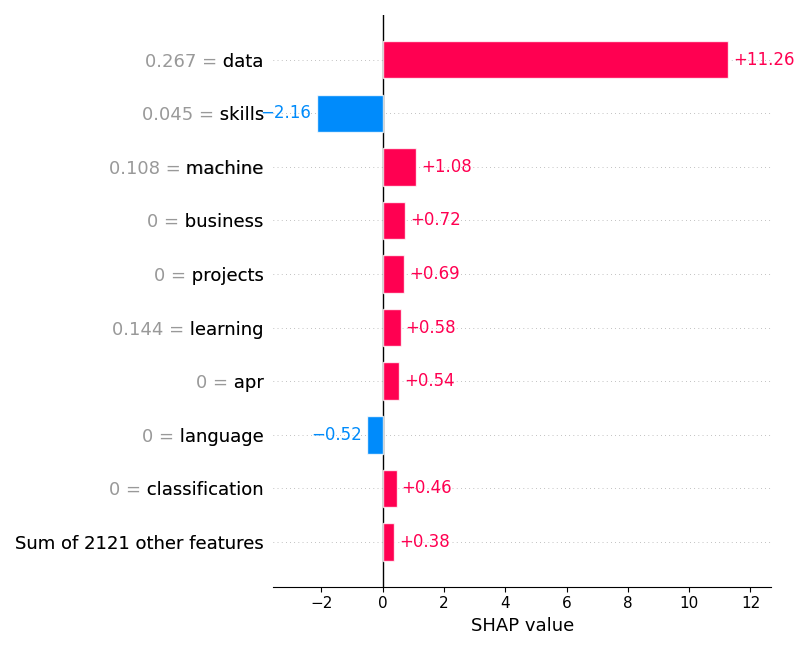
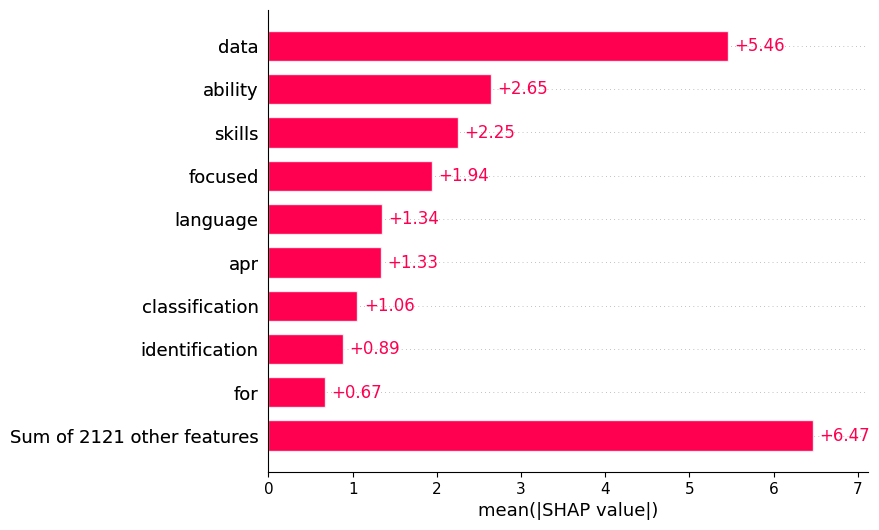
final changes before survey

Changed region(s): [[0.0, 0.0302, 1.0, 0.9962], [0.5312, 0.2415, 0.5938, 0.2717], [0.2812, 0.9057, 0.3125, 0.9358]]

diff --git a/cvision/frontend/src/components/ToolSelector.jsx b/cvision/frontend/src/components/ToolSelector.jsx
@@ -1,6 +1,22 @@
-import React, { useState } from "react";
+import React, { useState, useEffect } from "react";
 
 export default function ToolSelector() {
+  useEffect(() => {
+  const handleResize = (event) => {
+    if (event.origin.includes("127.0.0.1")) {
+      const iframe = document.querySelector("iframe");
+      if (iframe && event.data.height) {
+        iframe.style.height = event.data.height + "px";
+      }
+    }
+  };
+
+  window.addEventListener("message", handleResize);
+  return () => window.removeEventListener("message", handleResize);
+}, []);
+
+
+  
   const [tool, setTool] = useState("shap");
   const [file, setFile] = useState(null);
   const [score, setScore] = useState(null);
@@ -169,78 +185,7 @@ export default function ToolSelector() {
           </p>
         )}
 
-        {score !== null && (
-          <div className="bg-white rounded-2xl shadow-xl p-10">
-            <div className="text-center">
-              <h2 className="text-2xl font-bold text-gray-800">Match Score</h2>
-              <p className="text-6xl font-extrabold text-indigo-600 mt-2">
-                {score.toFixed(2)}%
-              </p>
-              <p className="mt-4 text-gray-600">
-                This score reflects how well the resume aligns with the job
-                requirements based on extracted skills.
-              </p>
-            </div>
-
-            <div className="mt-12 grid md:grid-cols-2 gap-8">
-              {tool === "shap" && resultFile && (
-                <div>
-                  <h3 className="text-xl font-semibold text-gray-700 mb-3">
-                    SHAP Feature Importance
-                  </h3>
-                  <img
-                    src={`http://127.0.0.1:5000/outputs/${resultFile}`}
-                    alt="SHAP Importance"
-                    className="rounded-xl border w-full"
-                  />
-                </div>
-              )}
-
-              {tool === "lime_text" && resultFile && (
-                <div className="mt-8">
-                  <h3 className="text-xl font-semibold text-gray-700 mb-3">
-                    LIME Explanation
-                  </h3>
-                  <div className="w-full min-h-[800px]">
-                    <iframe
-                      src={`http://127.0.0.1:5000/outputs/${resultFile}`}
-                      title="LIME Explanation"
-                      className="w-full h-[800px] border rounded-xl shadow"
-                      style={{ width: "50%", height: "350px", border: "1px solid #ccc", borderRadius: "1rem" }}
-
-                    />
-                  </div>
-                </div>
-              )}
-
-              {tool === "dice" && (
-                <div>
-                  <h3 className="text-xl font-semibold text-gray-700 mb-3">
-                    DiCE Explanation
-                  </h3>
-                  {outputText ? (
-                    <div className="p-4 border rounded bg-white text-black">
-                      <div className="font-mono whitespace-pre-wrap">
-                        {renderDiceOutput(outputText)}
-                      </div>
-                    </div>
-                  ) : resultFile ? (
-                    <div>
-                      <p>Download the explanation:</p>
-                      <a
-                        href={`http://127.0.0.1:5000/outputs/${resultFile}`}
-                        target="_blank"
-                        rel="noopener noreferrer"
-                        className="text-blue-600 underline"
-                      >
-                        View explanation file
-                      </a>
-                    </div>
-                  ) : null}
-                </div>
-              )}
-
-              <div className="bg-gray-50 rounded-xl p-6 shadow-inner">
+        <div className="bg-gray-50 rounded-xl p-6 shadow-inner">
                 <h4 className="text-lg font-semibold text-indigo-700 mb-2">
                   Interpretation Tips
                 </h4>
@@ -263,6 +208,88 @@ export default function ToolSelector() {
                   </li>
                 </ul>
               </div>
+
+        {score !== null && (
+          <div className="bg-white rounded-2xl shadow-xl p-10">
+            <div className="text-center">
+              <h2 className="text-2xl font-bold text-gray-800">Match Score</h2>
+              <p className="text-6xl font-extrabold text-indigo-600 mt-2">
+                {score.toFixed(2)}%
+              </p>
+              <p className="mt-4 text-gray-600">
+                This score reflects how well the resume aligns with the job
+                requirements based on extracted skills.
+              </p>
+            </div>
+
+            <div className="mt-12 grid md:grid-cols-2 gap-8">
+              {tool === "shap" && resultFile && (
+                <div>
+                  <h3 className="text-xl font-semibold text-gray-700 mb-3">
+                    SHAP Feature Importance
+                  </h3>
+                  <p className="text-sm text-gray-600 mb-4">
+  This is global feature importance plot, where the global importance of each feature is taken to be the mean absolute value for that feature over all the given samples.
+</p>
+                  <img
+                    src={`http://127.0.0.1:5000/outputs/${resultFile}`}
+                    alt="SHAP Importance"
+                    className="rounded-xl border w-full"
+                  />
+                </div>
+              )}
+
+              {tool === "lime_text" && resultFile && (
+                <div className="mt-8">
+                  <h3 className="text-xl font-semibold text-gray-700 mb-3">
+                    LIME Explanation
+                  </h3>
+                  <p className="text-sm text-gray-600 mb-4">
+  This explanation highlights key words in your resume and shows whether they positively or negatively affected your match score. Words are color-coded: orange means a positive effect, blue means negative.
+</p>
+                  <div className="w-full min-h-[800px]">
+                    <iframe
+                      src={`http://127.0.0.1:5000/outputs/${resultFile}`}
+                      title="LIME Explanation"
+                      className="w-full h-[800px] border rounded-xl shadow"
+                      style={{ width: "110%", height: "450px", border: "1px solid #ccc", borderRadius: "1rem" }}
+
+                    />
+                  </div>
+                </div>
+              )}
+
+              {tool === "dice" && (
+                <div>
+                  <h3 className="text-xl font-semibold text-gray-700 mb-3">
+                    DiCE Explanation
+                  </h3>
+                  <p className="text-sm text-gray-600 mb-4">
+  These suggestions show how your resume could be changed to receive a higher score. Each scenario lists specific changes (like adding skills or modifying terms) that would improve your match percentage.
+</p>
+                  {outputText ? (
+                    <div className="p-4 border rounded bg-white text-black">
+                      <div className="font-mono whitespace-pre-wrap">
+                        {renderDiceOutput(outputText)}
+                      </div>
+                    </div>
+                  ) : resultFile ? (
+                    <div>
+                      <p>Download the explanation:</p>
+                      <a
+                        href={`http://127.0.0.1:5000/outputs/${resultFile}`}
+                        target="_blank"
+                        rel="noopener noreferrer"
+                        className="text-blue-600 underline"
+                      >
+                        View explanation file
+                      </a>
+                    </div>
+                  ) : null}
+                </div>
+              )}
+
+              
             </div>
           </div>
         )}

diff --git a/cvision/backend/outputs/lime_text_explanation.html b/cvision/backend/outputs/lime_text_explanation.html
@@ -37089,10 +37089,10 @@
 /***/ })
 /******/ ]);
 //# sourceMappingURL=bundle.js.map </script></head><body>
-        <div class="lime top_div" id="top_div6M85F1NLWIU9HA0"></div>
+        <div class="lime top_div" id="top_div5S1S6ADWUKDK6IG"></div>
         
         <script>
-        var top_div = d3.select('#top_div6M85F1NLWIU9HA0').classed('lime top_div', true);
+        var top_div = d3.select('#top_div5S1S6ADWUKDK6IG').classed('lime top_div', true);
         
             var pp_div = top_div.append('div')
                                 .classed('lime predict_proba', true);
@@ -37104,10 +37104,24 @@
             var exp = new lime.Explanation(["Not a Match", "Match"]);
         
                 exp_div = top_div.append('div').classed('lime explanation', true);
-                exp.show([["Data", 0.20804370203375042], ["SKILLS", -0.09030238681360943], ["to", -0.02251162227091143], ["Machine", 0.021120781265137546], ["machine", 0.011417822735747495], ["Learning", 0.009141211891329595], ["AWS", -0.006500669878555674], ["Level", -0.004783436209509951], ["production", -0.004645929302274351], ["in", 0.004110160135634392]], 1, exp_div);
+                exp.show([["Data", 0.20968063628784173], ["SKILLS", -0.08803429823066504], ["to", -0.025146764288885255], ["Machine", 0.02223795210641272], ["Learning", 0.013986659772136069], ["machine", 0.012842888725818355], ["AWS", -0.00780642676606078], ["HISTORY", -0.006115708067835104], ["Python", -0.006105561672567849], ["measures", 0.003934190005029609]], 1, exp_div);
                 
         var raw_div = top_div.append('div');
-            exp.show_raw_text([["Data", 140, 0.20804370203375042], ["Data", 279, 0.20804370203375042], ["Data", 330, 0.20804370203375042], ["Data", 612, 0.20804370203375042], ["Data", 628, 0.20804370203375042], ["Data", 732, 0.20804370203375042], ["SKILLS", 500, -0.09030238681360943], ["to", 466, -0.02251162227091143], ["Machine", 156, 0.021120781265137546], ["Machine", 532, 0.021120781265137546], ["machine", 241, 0.011417822735747495], ["Learning", 164, 0.009141211891329595], ["Learning", 179, 0.009141211891329595], ["Learning", 540, 0.009141211891329595], ["AWS", 273, -0.006500669878555674], ["AWS", 596, -0.006500669878555674], ["AWS", 686, -0.006500669878555674], ["AWS", 718, -0.006500669878555674], ["Level", 700, -0.004783436209509951], ["production", 440, -0.004645929302274351], ["in", 113, 0.004110160135634392], ["in", 806, 0.004110160135634392]], 1, "ARMIN FITZGERALD\n\nD A   T   A     M   A   N   A   G   E   R\n\nPROFESSIONAL PROFILE\n\nEMPLOYMENT HISTORY\n\nExpertise in Mathematical Modelling, Data\nGathering, Machine Learning, Deep\nLearning. Ardent developer of Cloud-\nbased data solutions and machine\nlearning products using AWS.\n\nData Manager \n\nBPM Foundation, Jun 2020 - Ongoing\n\nData Sampling and management of Agricultural Produce and\nfinding correlation between faulty outcomes and safe production\nmeasures taken to handle the produce\n\nPROFICIENT SKILLS\n\nMathematical modelling, Machine\nLearning, Predictive Analysis, Artificial\nIntelligence, AWS deployment, Data\ngathering, Data Mining, Python.\n\nACHIEVEMENTS AND EXTRA\nCURRICULARS\n\nAWS Sagemaker Level 2 Architect\nAWS Certified Data Enginee\n\nEDUCATIONAL HISTORY\n\nSanghvi College of Engineering\n\nB.Tech in 2019 \n\n\f", raw_div, true);
+            exp.show_raw_text([["Data", 140, 0.20968063628784173], ["Data", 279, 0.20968063628784173], ["Data", 330, 0.20968063628784173], ["Data", 612, 0.20968063628784173], ["Data", 628, 0.20968063628784173], ["Data", 732, 0.20968063628784173], ["SKILLS", 500, -0.08803429823066504], ["to", 466, -0.025146764288885255], ["Machine", 156, 0.02223795210641272], ["Machine", 532, 0.02223795210641272], ["Learning", 164, 0.013986659772136069], ["Learning", 179, 0.013986659772136069], ["Learning", 540, 0.013986659772136069], ["machine", 241, 0.012842888725818355], ["AWS", 273, -0.00780642676606078], ["AWS", 596, -0.00780642676606078], ["AWS", 686, -0.00780642676606078], ["AWS", 718, -0.00780642676606078], ["HISTORY", 94, -0.006115708067835104], ["HISTORY", 758, -0.006115708067835104], ["Python", 641, -0.006105561672567849], ["measures", 451, 0.003934190005029609]], 1, "ARMIN FITZGERALD\n\nD A   T   A     M   A   N   A   G   E   R\n\nPROFESSIONAL PROFILE\n\nEMPLOYMENT HISTORY\n\nExpertise in Mathematical Modelling, Data\nGathering, Machine Learning, Deep\nLearning. Ardent developer of Cloud-\nbased data solutions and machine\nlearning products using AWS.\n\nData Manager \n\nBPM Foundation, Jun 2020 - Ongoing\n\nData Sampling and management of Agricultural Produce and\nfinding correlation between faulty outcomes and safe production\nmeasures taken to handle the produce\n\nPROFICIENT SKILLS\n\nMathematical modelling, Machine\nLearning, Predictive Analysis, Artificial\nIntelligence, AWS deployment, Data\ngathering, Data Mining, Python.\n\nACHIEVEMENTS AND EXTRA\nCURRICULARS\n\nAWS Sagemaker Level 2 Architect\nAWS Certified Data Enginee\n\nEDUCATIONAL HISTORY\n\nSanghvi College of Engineering\n\nB.Tech in 2019 \n\n\f", raw_div, true);
             
         </script>
-        </body></html>
+        
+    <script>
+    window.onload = function () {
+        setTimeout(function () {
+        const height = document.body.scrollHeight;
+        console.log("📏 iframe sending height:", height);
+        window.parent.postMessage({ height: height }, "*");
+        }, 500);
+    };
+    </script>
+    <style>
+    body { margin: 0; padding: 20px; overflow: hidden; }
+    .lime_text_div { max-height: none !important; overflow: visible !important; }
+    </style>
+    </body></html>

diff --git a/cvision/backend/explain_resume.py b/cvision/backend/explain_resume.py
@@ -3,6 +3,8 @@ import shap
 import numpy as np
 import pandas as pd
 import spacy
+import matplotlib.pyplot as plt
+
 from pdfminer.high_level import extract_text
 
 OUTPUT_DIR = "outputs"
@@ -23,22 +25,37 @@ def run_explanation(filepath, tool, model, vectorizer):
     if tool == "shap":
         print("\n📌 Explaining with SHAP...")
 
-        explainer = shap.Explainer(model)
-        shap_values = explainer(features)
+        features_dense = features.toarray()
+
+        # ✅ Explicitly use TreeExplainer for XGBoost
+        explainer = shap.TreeExplainer(model)
+        shap_values = explainer.shap_values(features_dense)
 
         feature_names = vectorizer.get_feature_names_out()
 
+        print("Mean SHAP value (non-abs):", np.mean(shap_values))
+        print("Max SHAP value:", np.max(shap_values))
+
+
         explanation = shap.Explanation(
-            values=shap_values.values[0],
-            base_values=shap_values.base_values[0],
-            data=features.toarray()[0],
+            values=shap_values,
+            base_values=explainer.expected_value,
+            data=features_dense,
             feature_names=feature_names
         )
 
         shap_plot_path = os.path.join(OUTPUT_DIR, "shap_importance.png")
-
         shap.plots.bar(explanation, show=False)
 
-        print(f"📊 SHAP bar plot saved to {shap_plot_path}")
+        # Adjust figure to make room for long feature names
+        fig = plt.gcf()
+        fig.set_size_inches(10, 6)         # Wider figure
+        plt.subplots_adjust(left=0.3)      # More space on the left for labels
+
+        plt.savefig(shap_plot_path, bbox_inches="tight")  # ensures everything fits
+        plt.clf()
+
+        print(f"📊 SHAP global bar plot saved to {shap_plot_path}")
+
 
     return {"prediction": round(float(prediction), 2)}

diff --git a/cvision/backend/explain_lime_text.py b/cvision/backend/explain_lime_text.py
@@ -23,10 +23,40 @@ def run_text_lime_with_xgb(filepath, model, vectorizer):
         num_features=10
     )
 
+    html_content = exp.as_html()
+
+    # ✅ Fix spacing by replacing white-space
+    html_content = html_content.replace("white-space: pre-wrap;", "white-space: normal;")
+
+    # ✅ Add iframe resizing support
+    resize_script = """
+    <script>
+    window.onload = function () {
+        setTimeout(function () {
+        const height = document.body.scrollHeight;
+        console.log("📏 iframe sending height:", height);
+        window.parent.postMessage({ height: height }, "*");
+        }, 500);
+    };
+    </script>
+    <style>
+    body { margin: 0; padding: 20px; overflow: hidden; }
+    .lime_text_div { max-height: none !important; overflow: visible !important; }
+    </style>
+    """
+
+
+    # ✅ Inject before </body>
+    if "</body>" in html_content:
+        html_content = html_content.replace("</body>", resize_script + "</body>")
+    else:
+        html_content += resize_script
+
     output_dir = "outputs"
     os.makedirs(output_dir, exist_ok=True)
     output_path = os.path.join(output_dir, "lime_text_explanation.html")
-    exp.save_to_file(output_path)
+    with open(output_path, "w", encoding="utf-8") as f:
+        f.write(html_content)
 
     prediction_score = predict_fn([text])[0][1] * 100
 

diff --git a/cvision/backend/app.py b/cvision/backend/app.py
@@ -25,6 +25,7 @@ vectorizer = joblib.load("tfidf_vectorizer.pkl")
 feature_names = vectorizer.get_feature_names_out()
 TECH_SKILLS = joblib.load("feature_list.pkl")  # now preserved as underscores
 dice_regressor_model = joblib.load("xgb_regressor_model.pkl")  # ✅ Now it's your regressor
+shap_score = 0.0
 
 
 # === Setup DiCE ===
@@ -89,6 +90,9 @@ def explain():
         file.save(filepath)
 
         result = run_explanation(filepath, tool, regressor_model, vectorizer)
+        global shap_score
+        shap_score = result["prediction"]
+
         return jsonify(result)
 
     except Exception as e:
@@ -125,6 +129,9 @@ def explain_dice():
 
         raw_pred = dice_regressor_model.predict(query)[0]
         prediction = float(np.clip(raw_pred, 0, 1)) * 100
+        global shap_score
+        prediction = shap_score  # Bias the DiCE score to match SHAP
+
 
         print("🎯 Query Input:", query.to_dict(orient="records")[0])
         print("🔮 Prediction Score:", prediction)
